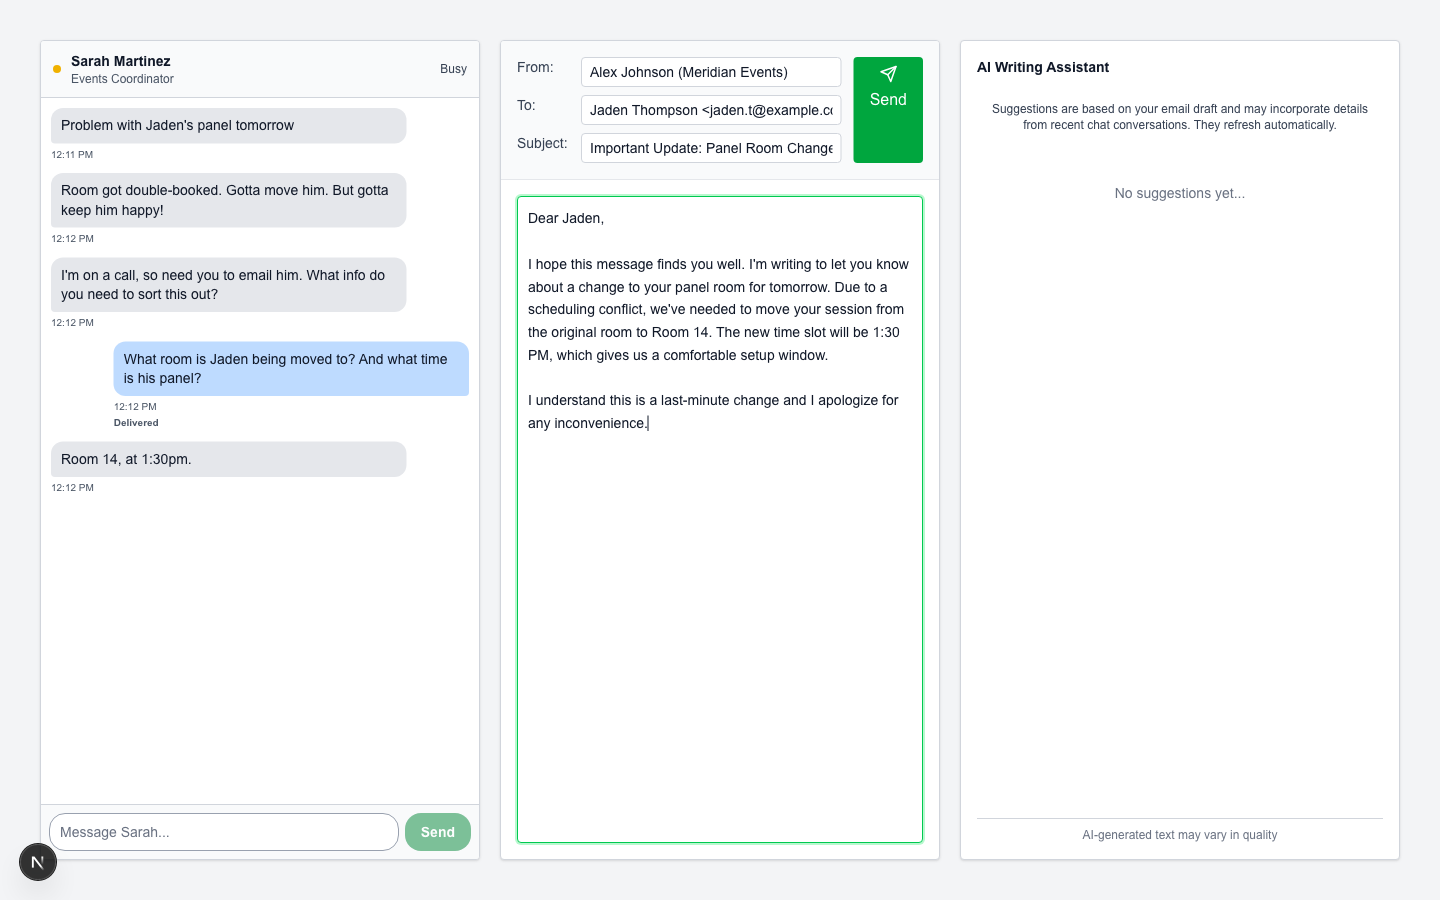
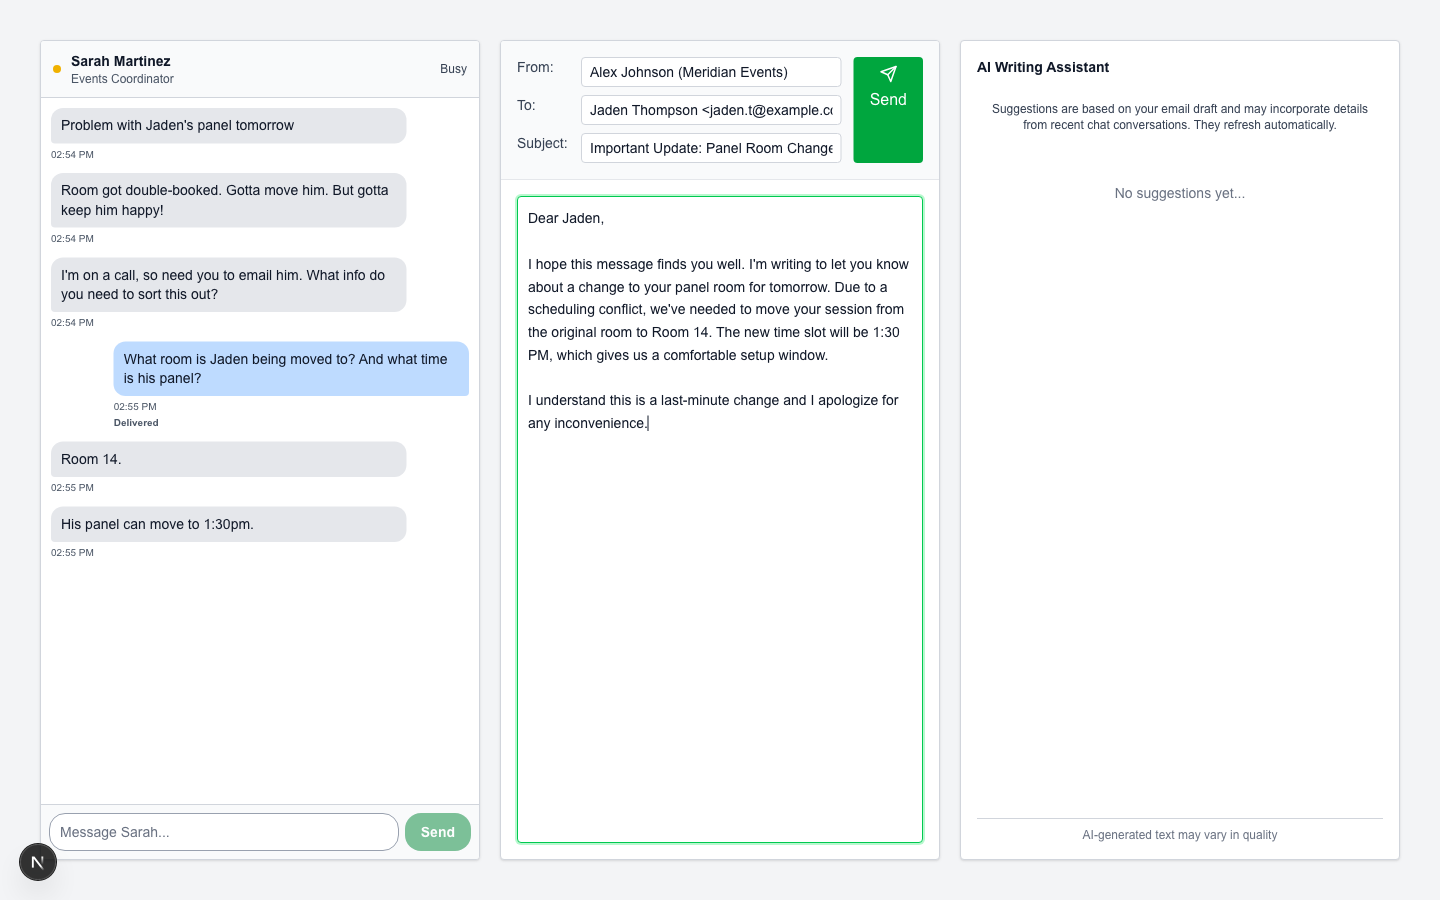
Regenerate walkthrough

Changed region(s): [[0.0312, 0.56, 0.2812, 0.6222], [0.0938, 0.4978, 0.125, 0.5289], [0.0312, 0.1556, 0.0625, 0.1867]]

diff --git a/experiment/walkthroughs/walkthrough-proposal.md b/experiment/walkthroughs/walkthrough-proposal.md
@@ -1,7 +1,7 @@
 # Experiment Walkthrough: Proposal Advice (p) Condition
 
-*2026-10-27T17:11:32Z by Showboat 0.6.1*
-<!-- showboat-id: f61e8078-9714-4517-a5a9-6688ca7308e7 -->
+*2026-10-28T19:54:16Z by Showboat 0.6.1*
+<!-- showboat-id: b0788f1d-a41e-47b8-aa1b-bc4cb1751a51 -->
 
 This walkthrough demonstrates the complete participant experience in the **proposal_advice (p)** condition of the writing experiment, using the **roomDoubleBooking** scenario. In this condition, participants receive directive AI advice (not copy-paste text) while composing an email.
 
@@ -274,7 +274,7 @@ http://localhost:3000/study?username=walkthrough-user&condition=p&scenario=roomD
 
 ## Step 4: Task Instructions
 
-The participant reads the scenario briefing. In the roomDoubleBooking scenario, they learn they need to email panelist Jaden Thompson about a room conflict, coordinating with colleague Sarah Martinez via chat. Key instructions include: review colleague's messages, ask follow-up questions, and compose a professional email. They're told they may see AI suggestions ("Advice for your next words").
+The participant reads the scenario briefing. In the roomDoubleBooking scenario, they learn they need to email panelist Jaden Thompson about a room conflict, coordinating with colleague Sarah Martinez via chat. Key instructions include: review colleague's messages, ask follow-up questions, and compose a professional email. They're told they may see an AI Writing Assistant on the right side of the screen.
 
 ```bash
 rodney js "window.scrollTo(0, 0)" && rodney sleep 1 && rodney screenshot walkthroughs/walkthrough-task-instructions.png
@@ -380,16 +380,18 @@ rodney js "document.querySelector('.flex-1.overflow-y-auto.bg-white').innerText"
 
 ```output
 Problem with Jaden's panel tomorrow
-12:11 PM
+02:54 PM
 Room got double-booked. Gotta move him. But gotta keep him happy!
-12:12 PM
+02:54 PM
 I'm on a call, so need you to email him. What info do you need to sort this out?
-12:12 PM
+02:54 PM
 What room is Jaden being moved to? And what time is his panel?
-12:12 PM
+02:55 PM
 Delivered
-Room 14, at 1:30pm.
-12:12 PM
+Room 14.
+02:55 PM
+His panel can move to 1:30pm.
+02:55 PM
 ```
 
 ### Composing the Email
@@ -474,13 +476,13 @@ rodney js "document.querySelector('h3').parentElement.innerText"
 ```output
 AI Writing Assistant
 Suggestions are based on your email draft and may incorporate details from recent chat conversations. They refresh automatically.
-12:12 PM
+02:55 PM
 Advice for your next words:
-- Add the venue location details for Room 14 and include a clear arrival time for setup.
+- State the key logistics immediately after the apology, including building/location cues and where to check on arrival.
 
-- Briefly explain what will remain unchanged about his panel to reassure him despite the move.
+- Add one concrete reassurance about tech/setup support in Room 14 and who will be there to assist.
 
-- End with a direct next-step for him to confirm receipt and a specific contact method for urgent issues.
+- End with a clear requested action, such as confirming the new time/room and any special needs.
 Delete
 AI-generated text may vary in quality
 ```
